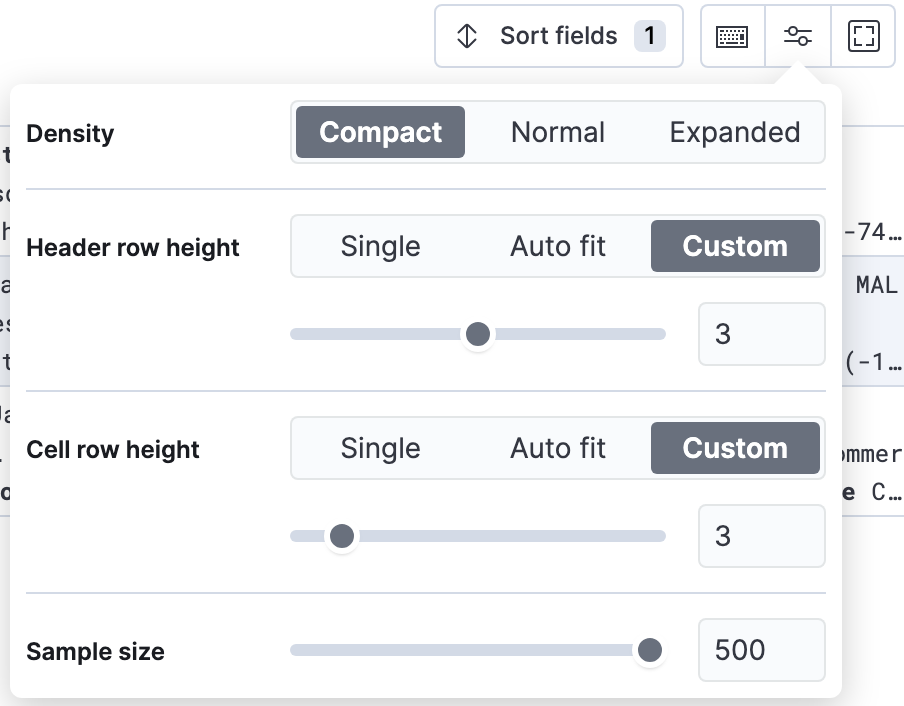
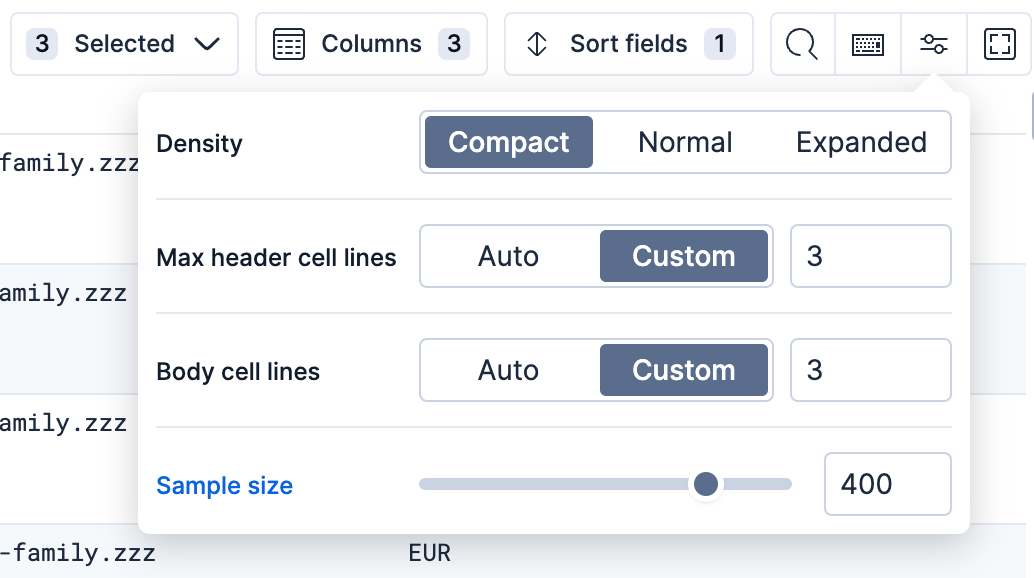
Updates from 8.18 Discover (#807)
This PR carries forward the changes made in
https://github.com/elastic/kibana/pull/214838. I'll ask for dev reviews
first in the asciidoc one, then carry the edits to this one, before
merging.

See
https://docs-v3-preview.elastic.dev/elastic/docs-content/pull/807/explore-analyze/discover/discover-get-started#in-table-search
for the most significant change.
Rest are screenshots.

ES|QL related changes will be in a separate PR

diff --git a/explore-analyze/discover/discover-get-started.md b/explore-analyze/discover/discover-get-started.md
@@ -140,6 +140,19 @@ For geo point fields (![Geo point field icon](../../images/kibana-geoip-icon.png
 ![Map containing documents](../../images/kibana-discover-maps.png "")
 
 
+### Find and highlight values in the table [in-table-search]
+
+Use the in-table search to find and highlight specific values beyond what's currently visible on your screen.
+
+The in-table search looks for all matching values in all results and pages currently loaded in the table. The number of results loaded depends on the [Sample size](document-explorer.md#document-explorer-sample-size). If you load more results, the search automatically updates and reflects the new number of matching values, if any more are found.
+
+```{tip}
+You can navigate between results with your keyboard by pressing "Enter" to go to the next result, and "Shift + Enter" to go to the previous result.
+```
+
+![Using the in-table search and navigating through the matches](https://images.contentstack.io/v3/assets/bltefdd0b53724fa2ce/blt30bf5f8b9a45ab74/67c234a787966d9fbc994ce0/in-table-search-demo.gif)
+
+
 ### Compare documents [compare-documents-in-discover]
 
 You can use **Discover** to compare and diff the field values of multiple results or documents in the table.
@@ -166,6 +179,10 @@ You can quickly copy the content currently displayed in the table for one or sev
 2. Open the **Selected** menu in the table toolbar, and select **Copy selection as text** or **Copy documents as JSON**.
 
 The content is copied to your clipboard in the selected format. Fields that are not currently added to the table are ignored.
+
+:::{tip}
+You can copy the content of a single cell to your clipboard from the quick actions that appear when hovering over the cell.
+:::
 
 
 ### Explore individual result or document details in depth [look-inside-a-document]
